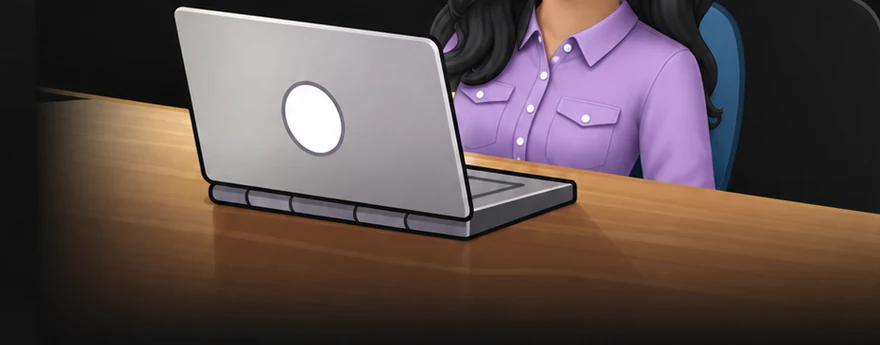
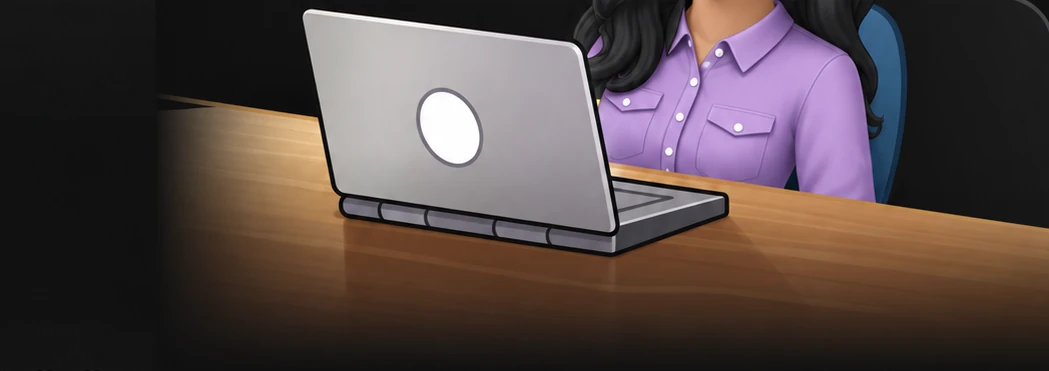
Use her crops as they come
Each card now shows the full interior of her own card, spanning the card
width. Both crops are 1049px wide, so both land at one scale and her
framing carries over untouched; the card edge crops the overflow, from
the bottom on About and the top on Experience.

I had been reframing and re-aligning these. Measured, her face sits at
72% across the About crop and her shirt at 56% across the work one -
so the two were never column-aligned, and every offset I computed was
working against the framing she had already set.

diff --git a/site.css b/site.css
@@ -616,43 +616,19 @@ body {
   pointer-events: none;
 }
 
-.deco-cut {
-  /* her own crop: the head is already cut at the bottom in the source, so
-     sitting flush to the card's bottom edge preserves that cut */
-  right: 33px;
-  bottom: 0;
-  width: 190px;
-  /* her crop carries its own near-black ground, a shade off ours, so the
-     tile edges are feathered rather than left as a visible rectangle */
-  -webkit-mask-image: linear-gradient(90deg, transparent, #000 26%);
-  mask-image: linear-gradient(90deg, transparent, #000 26%);
-}
-
-.deco-grad {
-  right: -22px;
-  top: -14px;
-  width: 128px;
-  border-radius: 50%;
-  opacity: 0.9;
-}
-
-/* the desk scene: a tile flush into the top-right corner, cropped by the
-   card's edges. Its inner edges are feathered so the rectangle itself
-   never reads - only the desk and the figure on it. */
+/* Her own framing, used as it comes. Both crops are the same width, so
+   spanning each across its card puts them at an identical scale - which is
+   what preserves the alignment she set. The card edge crops the overflow:
+   About from the bottom, where her head is; Experience from the top. */
+.deco-cut,
 .deco-desk {
-  /* the desk scene runs off the right edge, its top flush with the card */
-  right: 0;
-  top: 0;
-  width: 280px;
-  -webkit-mask-image:
-    linear-gradient(90deg, transparent, #000 20%),
-    linear-gradient(0deg, transparent, #000 24%);
-  -webkit-mask-composite: source-in;
-  mask-image:
-    linear-gradient(90deg, transparent, #000 20%),
-    linear-gradient(0deg, transparent, #000 24%);
-  mask-composite: intersect;
+  left: 0;
+  width: 100%;
+  height: auto;
 }
+
+.deco-cut  { bottom: 0; }
+.deco-desk { top: 0; }
 
 /* a row of project screens, looping past both edges */
 .deco-apps {
